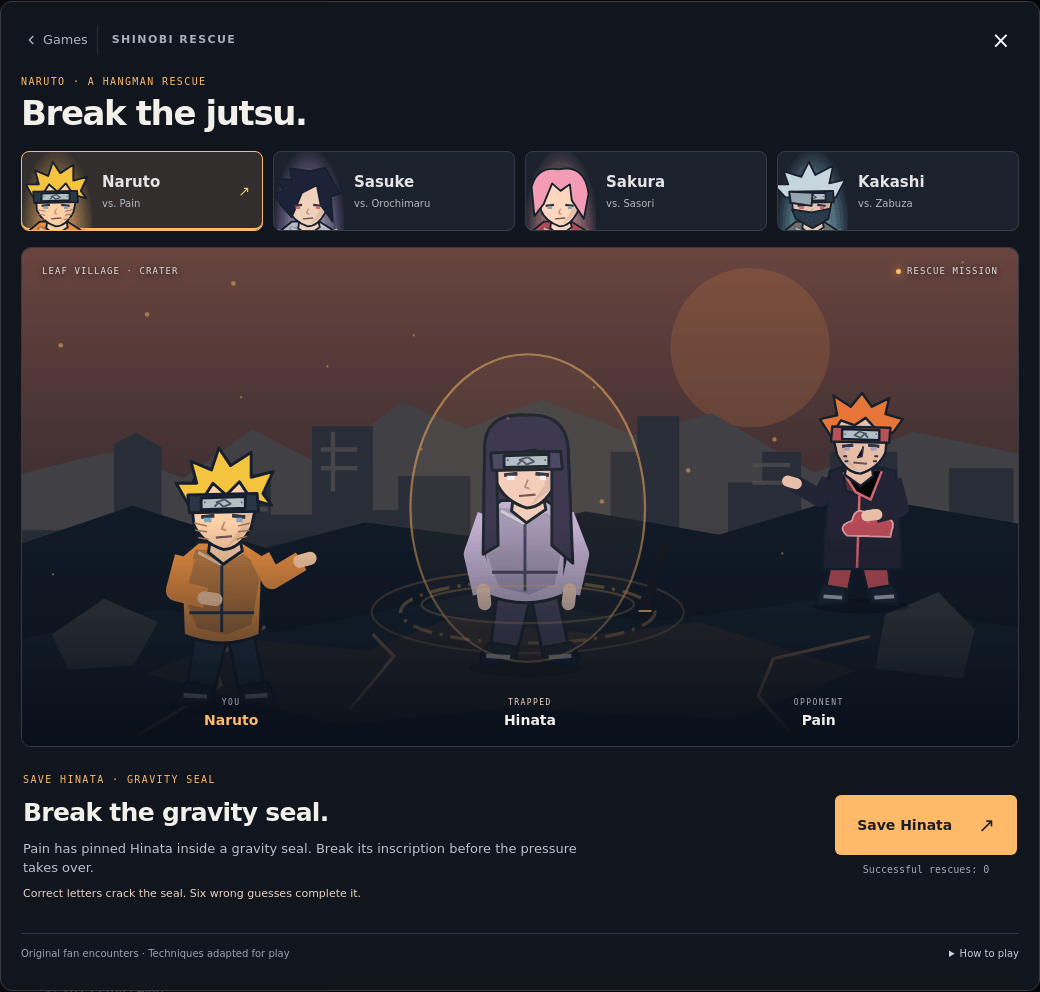
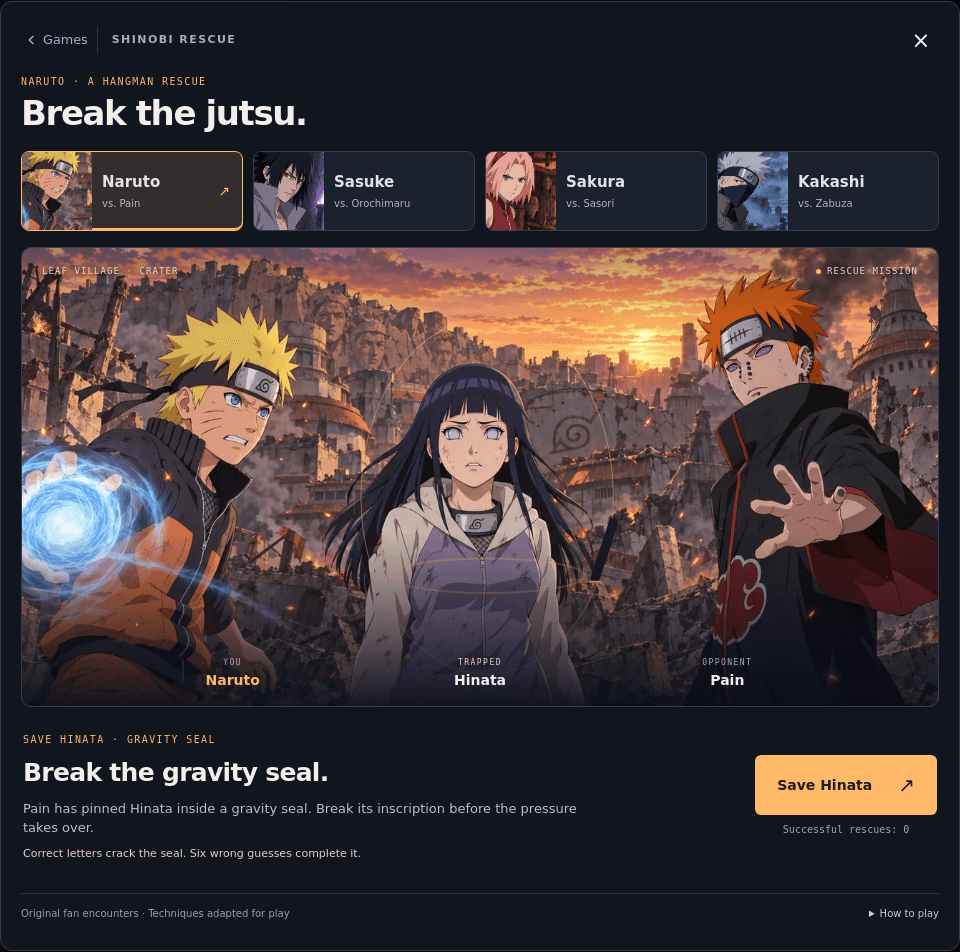
Replace rescue characters with illustrated 2D scenes and simplify desktop input

diff --git a/js/rescue-art.js b/js/rescue-art.js
@@ -1,80 +1,30 @@
-// Original, inline vector artwork. No remote images, fonts, or asset requests.
-const palettes = {
-  naruto: ['#f5c43f', '#ed9140', '#273546', '#ffd0a6'],
-  hinata: ['#33314e', '#c1b2d8', '#424363', '#f3cfbf'],
-  pain: ['#e87538', '#222334', '#bc4e58', '#e8bfa6'],
-  sasuke: ['#1c2238', '#b8bbd0', '#363049', '#efd0bc'],
-  orochimaru: ['#171b2b', '#d1c5a8', '#846591', '#e4dfc6'],
-  sakura: ['#f49cb6', '#b7405f', '#442a42', '#ffd6be'],
-  sasori: ['#b44742', '#272536', '#bc4e58', '#eac4ac'],
-  kankuro: ['#272536', '#383746', '#514c67', '#e6bb95'],
-  kakashi: ['#c6d6df', '#687e67', '#243747', '#e8c6af'],
-  zabuza: ['#202c37', '#7c999e', '#2c4451', '#d4bba7']
-};
-export function shinobi(name, pose = 'stand') {
-  const id = name.toLowerCase();
-  const [hair, coat, dark, skin] = palettes[id];
-  const cloak = ['pain', 'sasori'].includes(id);
-  const long = ['hinata', 'orochimaru'].includes(id);
-  const captive = pose === 'captive';
-  const headband = ['naruto', 'hinata', 'pain', 'kakashi', 'zabuza'].includes(id);
-  const hairPath = id === 'naruto' ? 'M27 43 19 29 33 29 29 14 43 20 48 5 56 17 70 8 70 25 85 21 78 36 84 44 70 40 62 28 53 37 44 29 35 43Z' : id === 'kakashi' ? 'M23 43 10 29 26 29 21 15 40 21 48 5 55 19 74 9 70 28 87 24 77 43Z' : id === 'pain' ? 'M25 41 17 30 31 26 28 13 42 20 50 9 59 20 73 11 70 27 84 30 75 44 67 31 56 35 47 29 37 40Z' : id === 'sasuke' ? 'M23 52 15 39 26 36 17 23 34 24 32 12 54 15 70 11 78 26 86 39 76 42 78 69 65 51 61 30 45 38 34 64Z' : id === 'sakura' ? 'M24 63 21 32Q27 9 50 13Q78 7 82 39L77 66 64 46 62 29 52 36 43 28 34 50Z' : long ? 'M22 105 23 36Q22 10 51 12Q79 10 79 38L82 111 68 99 68 42 57 35 31 40 32 99Z' : 'M23 47 22 29Q29 10 52 14Q79 11 80 38L74 53 65 31 38 34 30 56Z';
-  return `<g class="sr-person sr-person-${id}" stroke="#15202d" stroke-width="2" stroke-linejoin="round">
-    <ellipse cx="51" cy="181" rx="39" ry="6" fill="#000" opacity=".28" stroke="none"/>
-    ${long ? `<path d="M22 105 23 36Q22 10 51 12Q79 10 79 38L82 118 64 108 36 114Z" fill="${hair}"/>` : ''}
-    <path d="m32 126-6 49 17 3 11-45 9 44 18-2-11-51" fill="${dark}"/>
-    <path d="m26 164 18 3-1 11-23 2 1-9Zm37 3 18-3 5 9-1 7-23-2Z" fill="#1a2938"/>
-    <path d="m24 173 16 1m26 0 15-1" stroke="#acb5bc" stroke-width="3"/>
-    <path d="M34 69 22 79 24 132Q51 143 76 132L78 78 64 69Z" fill="${coat}"/>
-    <path d="m32 74-8 30 9 23 20 5 17-7 7-38-15-12" fill="${dark}" opacity=".25" stroke="none"/>
-    ${cloak ? `<path d="M33 69 23 72 17 151 82 151 76 72 66 69 63 88 49 92 40 85Z" fill="${coat}"/><path d="m52 91 2 59M34 72l9 23 12-6 10-16" stroke="#d1686f"/><path d="M26 120q-4-10 7-10 3-12 12-4 11-6 13 6 13 4 4 12l-35 1Z" fill="#b74b57" stroke="#dfa2a0" stroke-width="1.4"/>` : `<path d="M50 77v53M28 117h44" stroke="${dark}"/><path d="M34 76 49 84 64 76" fill="none" stroke="#f4eee1" opacity=".6"/>`}
-    ${id === 'kakashi' ? '<path d="m29 86 15 1-1 20H28Zm29 1 15-1 1 21H58Z" fill="#899b75"/><path d="M32 92h8m21 0h9M32 100h8m21 0h9" stroke="#4e6559"/>' : ''}
-    ${id === 'sasuke' || id === 'orochimaru' ? '<path d="M23 125q27-9 55 0m-53 6q25-9 51 0" fill="none" stroke="#8f71a9" stroke-width="6"/><path d="M53 126q26-13 19 7-12 11-17-4 7 18 2 30" fill="none" stroke="#9f81b9" stroke-width="5"/>' : ''}
-    <path d="${captive ? 'M25 79 16 105 22 131M76 79 86 105 80 131' : pose === 'attack' ? 'M25 79 19 102 39 107M76 79 84 94 104 82' : 'M25 79 13 110 17 130M76 79 89 109 85 131'}" fill="none" stroke="${coat}" stroke-width="14"/>
-    <path d="${captive ? 'm22 129 1 9m57-9-1 9' : pose === 'attack' ? 'm38 107 8 1m57-26 7-2' : 'm17 128 1 9m67-9-1 9'}" fill="none" stroke="${skin}" stroke-width="9" stroke-linecap="round"/>
-    <path d="m43 60-2 16 10 8 13-9-3-15" fill="${skin}"/>
-    <path d="M29 36Q29 18 52 19Q75 18 74 41L70 59Q62 74 51 74Q36 69 31 57Z" fill="${skin}"/>
-    <path d="m65 41 7 3-4 17-15 12 10-14Z" fill="#aa7774" opacity=".25" stroke="none"/>
-    <path d="${hairPath}" fill="${hair}"/>
-    ${headband ? `<path d="m27 37 47-1 1 12-47 1Z" fill="${dark}"/><path d="m36 39 30-1v8l-30 1Z" fill="#b2bfc6"/><path d="m46 42 6-2 4 3-5 2-3-3-3 3m-7-3h1m24 0h1" fill="none" stroke="#455469" stroke-width="1.3"/>` : ''}
-    ${id === 'kankuro' ? `<path d="M24 38 24 18 37 24 52 16 68 23 79 17 80 43 71 69 66 42 36 41 32 72 23 55Z" fill="${hair}"/><path d="m35 49 8 9-7 4m29-13-8 9 7 4m-20 8h13" stroke="#7753a9" stroke-width="4" fill="none"/>` : ''}
-    <path d="m36 52 9-1m12 0 9 1" stroke="#303441" stroke-width="2.5"/>
-    <path d="m38 54h5m17 0h4" stroke="${id === 'hinata' ? '#eff0ff' : ['sasuke','kakashi'].includes(id) ? '#dc5a62' : id === 'pain' ? '#b293c7' : '#78a9c1'}" stroke-width="3"/>
-    ${id === 'pain' ? '<path d="m49 52 1 8 4 1m-17-1h3m-2 4h3m21-4h3m-4 4h3" stroke="#353242" stroke-width="1.5"/>' : '<path d="m52 55-2 5 3 1" stroke="#b78779" stroke-width="1.2" fill="none"/>'}
-    <path d="m46 66 11-1" stroke="#6c5357" stroke-width="1.5"/>
-    ${id === 'naruto' ? '<path d="m31 56 9 2m-8 3 8 1m-6 4 7 1m20-9 9-2m-9 6 8-1m-9 6 7-2" stroke="#a47158" stroke-width="1"/>' : ''}
-    ${id === 'kakashi' ? '<path d="m30 56 21 3 20-4-2 11-17 10-18-10Z" fill="#293b4e"/><path d="m28 37 24 1-1 14-21-3" fill="#94a8b2"/>' : ''}
-    ${id === 'zabuza' ? '<path d="m29 57 42-3-4 15-17 7-17-8Z" fill="#c6d4d5"/><path d="m34 59 30-1m-28 6 28-2m-24 7 20-3" stroke="#789397" stroke-width="1"/><path d="m80 134 21-87 14 4-23 89Z" fill="#aebfc3"/><circle cx="102" cy="61" r="4" fill="#334855"/><path d="m83 135-5 22" stroke="#494b54" stroke-width="7"/>' : ''}
-  </g>`;
+// Generated 2D encounter illustrations are local assets. SVG is used only for
+// the live prison, fractures, and attack effects, never to draw characters.
+export function portrait(name) {
+  return `<span class="sr-portrait-image" style="background-image:url('images/shinobi/${name.toLowerCase()}.webp')" aria-hidden="true"></span>`;
 }
-export function portrait(name) { return `<svg viewBox="15 0 75 83" aria-hidden="true" focusable="false">${shinobi(name)}</svg>`; }
-
-function scenery(mission) {
-  const common = `<path d="M0 267 100 233 220 271 310 248 402 260 510 238 630 259 750 223 900 249V450H0Z" fill="#101a27"/><path d="M0 353 125 326 230 347 410 312 567 338 734 316 900 343V450H0Z" fill="#172431"/>`;
-  if (mission.id === 'naruto') return `<circle cx="658" cy="90" r="72" fill="#d88046" opacity=".2"/><path d="M0 204 79 184 146 208 208 164 269 195 343 139 401 163 470 137 553 169 623 149 716 203 805 166 900 186V344H0Z" fill="#414044"/><path d="M0 255h83V177l20-10 23 13v75h61v-51h38v37h37v-80h55v76h23v-31h65v69h29v-59h46v51h52v-83h24v-32h38v115h44v-55h31v-28h35v83h26v-83h61v68h47v-53h58v85h59v-71h29v96H0Z" fill="#282d37"/><g stroke="#565054" stroke-width="4" opacity=".65"><path d="M281 166v54m-11-38h33m-33 17h33m-97 37h16m438-40h34m-34 16h34"/></g>${common}<path d="m113 385 75-33 124 12 74-29 134 14 92-11 141 44-112 44-204-10-150 15Z" fill="#302d32"/><path d="m105 440 75-45-8-24 48-29m476 98-31-35 14-34 87-20m-470 66 40-48-19-20" stroke="#776152" stroke-width="3" fill="none"/><path d="m27 349 47-32 49 21-22 39-59 4Zm753-18 48-20 33 34-11 44-79-9Z" fill="#393b40"/>`;
-  if (mission.id === 'sasuke') return `<path d="M0 0H900V160L838 122 802 197 744 83 677 144 615 64 552 122 465 59 383 155 296 83 227 148 155 63 92 147 0 124Z" fill="#272439"/><path d="M0 93 86 169 56 450H0Zm900-16-91 100 13 273h78Z" fill="#393149"/><path d="M130 112h39v227h-56Zm600 0h41l16 227h-54Z" fill="#39314a"/><path d="M118 108h65v15h-65Zm600 0h66v15h-66Z" fill="#574160"/>${common}<path d="M191 450 290 284m420 166L610 284m-452 77h590M93 416h720" stroke="#4a3656" stroke-width="2"/><g fill="none" stroke="#796194" opacity=".5" stroke-width="10"><path d="M31 291q140-156 107-37T60 334m802-43q-140-156-107-37t78 80"/></g><g fill="#c995fc"><path d="m137 190-10 31 15 13 11-17Z"/><path d="m751 189-12 29 14 16 12-17Z"/></g>`;
-  if (mission.id === 'sakura') return `<path d="M0 0H900V330H0Z" fill="#31282e"/><path d="M0 71h900M0 224h900M85 0v329M281 0v329M623 0v329M819 0v329" stroke="#63404a" stroke-width="12"/><g fill="#171d28" stroke="#79505a" stroke-width="3">${[155,337,564,746].map((x,i)=>`<path d="M${x} 0v${50+i*15}"/><ellipse cx="${x}" cy="${86+i*15}" rx="23" ry="30"/><path d="m${x-17} ${107+i*15}-15 95 67 2-18-94Z"/><path d="m${x-9} ${88+i*15}h4m11 0h4" stroke="#d2968d"/>`).join('')}</g>${common}<path d="M80 390 450 298 820 390 450 447Z" fill="#422e36" stroke="#9d6570" stroke-width="2"/><path d="m172 390 278-69 278 69-278 40Z" fill="none" stroke="#78535e"/>`;
-  return `<circle cx="660" cy="84" r="45" fill="#b5d2d8" opacity=".45"/><path d="M0 234 144 171 258 233 363 181 456 216 595 158 741 206 900 139V399H0Z" fill="#2f4654"/><path d="M0 291 135 245 312 287 498 245 679 283 900 210V450H0Z" fill="#263f4e"/><path d="M0 322h900v128H0Z" fill="#345463"/><g stroke="#7599a5" stroke-width="2" opacity=".45">${[0,1,2,3,4].map(i=>`<path d="M${i*91} ${336+i*23}h${280+i*25}m45 0h170"/>`).join('')}</g><path d="M0 344 210 306 686 306 900 346V385L678 343H213L0 388Z" fill="#3c5059"/><path d="M0 296 225 265h463l212 31M210 268v78m475-78v78" stroke="#6c8389" stroke-width="10"/><path d="M0 197q150-25 313 0t350 0 237-15M0 265q150-25 313 0t350 0 237-15" stroke="#a5c9ce" stroke-width="24" opacity=".1" fill="none"/>`;
-}
-
 export function scene(mission, prefix = 'rescue') {
-  const sky = { naruto: '#69443e', sasuke: '#312546', sakura: '#482a35', kakashi: '#304d62' }[mission.id];
   return `<svg class="sr-scene-svg" viewBox="0 0 900 450" aria-hidden="true" focusable="false">
-    <defs><linearGradient id="${prefix}-sky" x2="0" y2="1"><stop stop-color="${sky}"/><stop offset="1" stop-color="#101825"/></linearGradient><radialGradient id="${prefix}-aura"><stop stop-color="${mission.energy}" stop-opacity=".32"/><stop offset="1" stop-color="${mission.energy}" stop-opacity="0"/></radialGradient><linearGradient id="${prefix}-shade" x2="0" y2="1"><stop stop-color="#090f1900" offset=".55"/><stop stop-color="#090f19" offset="1"/></linearGradient></defs>
-    <path d="M0 0H900V450H0Z" fill="url(#${prefix}-sky)"/>
-    ${scenery(mission)}
-    <ellipse cx="457" cy="329" rx="141" ry="37" fill="none" stroke="${mission.color}" opacity=".22" stroke-width="2"/>
-    <ellipse cx="457" cy="329" rx="115" ry="28" fill="none" stroke="${mission.color}" opacity=".36" stroke-dasharray="18 7 3 7" stroke-width="3"/>
-    <g class="sr-enemy" transform="translate(815 121) scale(-1.12 1.12)">${shinobi(mission.enemy, 'attack')}</g>
-    <g class="sr-captive-position" transform="translate(387 135) scale(1.35)"><g class="sr-captive">${shinobi(mission.captive, 'captive')}</g></g>
-    <g class="sr-prison"><ellipse cx="457" cy="235" rx="106" ry="139" fill="${mission.color}" fill-opacity=".055" stroke="${mission.color}" stroke-opacity=".5" stroke-width="2"/>
-      <g class="sr-bindings"></g><g class="sr-cracks" fill="none" stroke="${mission.energy}" stroke-width="3" stroke-linejoin="bevel"></g>
+    <defs>
+      <linearGradient id="${prefix}-shade" x2="0" y2="1"><stop stop-color="#080c18" stop-opacity=".25"/><stop offset=".18" stop-color="#080c18" stop-opacity="0"/><stop offset=".62" stop-color="#080c18" stop-opacity="0"/><stop offset="1" stop-color="#080c18" stop-opacity=".93"/></linearGradient>
+      <radialGradient id="${prefix}-aura"><stop stop-color="${mission.energy}" stop-opacity=".5"/><stop offset="1" stop-color="${mission.energy}" stop-opacity="0"/></radialGradient>
+      <linearGradient id="${prefix}-veil" x2="0" y2="1"><stop stop-color="#171227" stop-opacity="0"/><stop offset="1" stop-color="#171227" stop-opacity=".9"/></linearGradient>
+    </defs>
+    <image class="sr-illustration" href="images/shinobi/${mission.id}.webp" width="900" height="600" preserveAspectRatio="xMidYMin meet"/>
+    <rect class="sr-captive-veil" x="321" y="78" width="272" height="352" rx="110" fill="url(#${prefix}-veil)" opacity="0"/>
+    <g class="sr-prison">
+      <ellipse cx="457" cy="244" rx="124" ry="175" fill="${mission.color}" fill-opacity=".025" stroke="${mission.color}" stroke-opacity=".45" stroke-width="1"/>
+      <ellipse cx="457" cy="244" rx="131" ry="182" fill="none" stroke="${mission.color}" stroke-opacity=".22" stroke-width=".7" stroke-dasharray="22 5 2 5"/>
+      <g class="sr-bindings"></g>
+      <g class="sr-cracks" fill="none" stroke="${mission.energy}" stroke-width="2" stroke-linejoin="bevel"></g>
     </g>
-    <g class="sr-hero-position" transform="translate(114 174) scale(1.33)"><g class="sr-hero">${shinobi(mission.hero, 'attack')}</g></g>
-    <g class="sr-strike" opacity="0"><ellipse cx="327" cy="276" rx="82" ry="61" fill="url(#${prefix}-aura)"/>${mission.id === 'naruto' ? `<g stroke="${mission.energy}" fill="none"><circle cx="306" cy="281" r="29" stroke-width="4"/><ellipse cx="306" cy="281" rx="29" ry="12" transform="rotate(-35 306 281)" stroke-width="3"/><ellipse cx="306" cy="281" rx="12" ry="29" transform="rotate(-35 306 281)" stroke-width="2"/></g>` : mission.id === 'sakura' ? `<path d="m302 272 17-41 7 27 29-9-13 27 24 10-36 8-14 25-8-29-24-1Z" fill="${mission.energy}"/>` : `<path d="m270 279 35-26-6 24 49-31-24 39 48-8-37 25 9 15-63-22" fill="none" stroke="${mission.energy}" stroke-width="4"/>`}</g>
-    <g class="sr-shards" fill="${mission.energy}" opacity="0">${Array.from({length:12},(_,i)=>{const a=i*Math.PI/6,x=457+Math.cos(a)*118,y=235+Math.sin(a)*142;return `<path style="--dx:${Math.cos(a)*115}px;--dy:${Math.sin(a)*90}px;--spin:${i%2?70:-70}deg" d="m${x} ${y} 16-13-5 31Z"/>`;}).join('')}</g>
+    <g class="sr-strike" opacity="0"><ellipse cx="357" cy="271" rx="130" ry="105" fill="url(#${prefix}-aura)"/>
+      ${mission.id==='naruto' ? `<g stroke="${mission.energy}" fill="none"><circle cx="306" cy="281" r="29" stroke-width="3"/><ellipse cx="306" cy="281" rx="29" ry="12" transform="rotate(-35 306 281)" stroke-width="2"/><ellipse cx="306" cy="281" rx="12" ry="29" transform="rotate(-35 306 281)" stroke-width="2"/></g>` : mission.id==='sakura' ? `<path d="m302 272 17-41 7 27 29-9-13 27 24 10-36 8-14 25-8-29-24-1Z" fill="${mission.energy}"/>` : `<path d="m260 295 49-35-8 25 39-39-5 39 52-20-32 32 22 18-75-17" stroke="${mission.energy}" stroke-width="3" fill="none"/>`}
+    </g>
+    <ellipse class="sr-rescue-light" cx="457" cy="244" rx="220" ry="210" fill="url(#${prefix}-aura)" opacity="0"/>
+    <g class="sr-shards" fill="${mission.energy}" opacity="0">${Array.from({length:16},(_,i)=>{const a=i*Math.PI/8,x=457+Math.cos(a)*122,y=244+Math.sin(a)*172;return `<path style="--dx:${Math.cos(a)*130}px;--dy:${Math.sin(a)*100}px;--spin:${i%2?70:-70}deg" d="m${x} ${y} 13-12-5 27Z"/>`;}).join('')}</g>
     <path d="M0 0H900V450H0Z" fill="url(#${prefix}-shade)" pointer-events="none"/>
-    <g fill="${mission.color}" opacity=".5">${Array.from({length:16},(_,i)=>`<circle class="sr-mote" style="animation-delay:${i*.27}s" cx="${(i*163+35)%900}" cy="${(i*47+88)%310}" r="${i%3===0?2:1}"/>`).join('')}</g>
+    <g fill="${mission.color}" opacity=".45">${Array.from({length:12},(_,i)=>`<circle class="sr-mote" style="animation-delay:${i*.27}s" cx="${(i*163+35)%900}" cy="${(i*47+88)%380}" r="${i%3===0?1.5:.8}"/>`).join('')}</g>
   </svg>`;
 }
 

diff --git a/css/rescue.css b/css/rescue.css
@@ -1,5 +1,5 @@
 /* Shinobi Rescue: all game styles are scoped to the new arcade panel. */
-.game-modal[data-game="rescue"] .game-modal-content { width:min(1040px,100%); background:#10151e; border-color:#3b3942; padding:20px; }
+.game-modal[data-game="rescue"] .game-modal-content { width:min(960px,100%); background:#10151e; border-color:#3b3942; padding:20px; }
 .game-modal[data-game="rescue"] .game-modal-header { margin-bottom:12px; }
 .game-modal[data-game="rescue"] .game-heading h3 { color:#a7adba; font-size:11px; text-transform:uppercase; letter-spacing:.13em; }
 .rescue-game { --sr-accent:#ffba69; --sr-energy:#80e8ff; color:#f3efe9; font:14px/1.5 system-ui,sans-serif; }
@@ -17,7 +17,11 @@
 .sr-character[aria-pressed="true"] { background:color-mix(in srgb,var(--card-accent) 13%,#141925); border-color:var(--card-accent); box-shadow:inset 0 -2px var(--card-accent); }
 .sr-character:hover { border-color:var(--card-accent); }
 .sr-portrait { width:70px; height:78px; flex:0 0 70px; align-self:flex-end; background:radial-gradient(ellipse at bottom,var(--card-accent),transparent 75%); }
-.sr-portrait svg { width:100%; height:100%; display:block; transform:translateY(5px); }
+.sr-portrait { position:relative; background:#242635; }
+.sr-portrait-image { display:block; width:100%; height:100%; background-size:500% auto; background-position:17% 23%; background-repeat:no-repeat; }
+[data-shinobi="sasuke"] .sr-portrait-image { background-position:19% 18%; }
+[data-shinobi="sakura"] .sr-portrait-image { background-position:18% 25%; }
+[data-shinobi="kakashi"] .sr-portrait-image { background-position:19% 19%; }
 .sr-character-copy { display:flex; flex-direction:column; gap:3px; min-width:0; }
 .sr-character strong { font-size:15px; }
 .sr-character small { font-size:10px; color:#b5b6c0; white-space:nowrap; }
@@ -28,7 +32,7 @@
 .sr-scene-top { position:absolute; top:17px; left:20px; right:20px; display:flex; justify-content:space-between; align-items:center; gap:12px; font:9px/1.5 ui-monospace,monospace; color:#e0d7d4; letter-spacing:.12em; text-shadow:0 1px 6px #10121c; }
 .sr-signal { display:flex; align-items:center; gap:6px; white-space:nowrap; }
 .sr-signal i { width:5px; height:5px; border-radius:50%; background:var(--sr-accent); box-shadow:0 0 10px var(--sr-accent); }
-.sr-nameplates { position:absolute; bottom:15px; left:0; right:0; display:grid; grid-template-columns:42% 18% 40%; pointer-events:none; }
+.sr-nameplates { position:absolute; bottom:15px; left:0; right:0; display:grid; grid-template-columns:46% 8% 46%; pointer-events:none; }
 .sr-nameplates span { display:flex; flex-direction:column; align-items:center; gap:2px; }
 .sr-nameplates small { font:8px/1.4 ui-monospace,monospace; letter-spacing:.18em; color:#aba8b6; }
 .sr-nameplates b { font-size:14px; font-weight:600; }
@@ -51,7 +55,8 @@
 .sr-pressure-track i.is-filled { background:#ee827e; box-shadow:0 0 12px #ee827e30; }
 .sr-puzzle-layout { display:grid; grid-template-columns:minmax(0,1fr) minmax(0,1fr); gap:30px; align-items:center; }
 .sr-puzzle #srClue { color:#e2dfe4; font-size:14px; min-height:42px; margin:7px 0 14px; }
-.sr-word { display:flex; gap:5px; flex-wrap:wrap; }
+.sr-word { width:fit-content; max-width:100%; display:flex; gap:5px; flex-wrap:wrap; }
+.sr-word:focus-visible { outline:1px solid var(--sr-accent); outline-offset:6px; border-radius:4px; }
 .sr-word span { display:grid; place-items:center; width:clamp(22px,3vw,35px); height:41px; font:600 19px ui-monospace,monospace; background:#1a2330; border:1px solid #344251; border-bottom:2px solid #68798e; border-radius:4px; color:#8da0b5; }
 .sr-word .is-found { color:var(--sr-energy); border-color:color-mix(in srgb,var(--sr-energy) 40%,#273342); background:color-mix(in srgb,var(--sr-energy) 8%,#141c27); }
 .sr-word .is-revealed { color:#ff9a94; border-color:#aa6568; }
@@ -73,7 +78,7 @@
 .sr-footer summary { cursor:pointer; color:#c7ccd7; min-height:24px; }
 .sr-footer details p { padding:10px 0; text-align:left; line-height:1.7; font-size:12px; }
 .sr-reader { position:absolute; width:1px; height:1px; overflow:hidden; clip-path:inset(50%); white-space:nowrap; }
-.sr-impact-label { position:absolute; top:17%; left:24%; right:24%; text-align:center; font:600 11px/1.5 ui-monospace,monospace; color:var(--sr-energy); letter-spacing:.08em; opacity:0; text-shadow:0 2px 6px #10121c; }
+.sr-impact-label { position:absolute; top:9%; left:24%; right:24%; text-align:center; font:600 11px/1.5 ui-monospace,monospace; color:var(--sr-energy); letter-spacing:.08em; opacity:0; text-shadow:0 2px 6px #10121c; }
 .sr-miss .sr-impact-label { color:#ffd3ca; }
 .sr-hit .sr-impact-label,.sr-miss .sr-impact-label { animation:sr-label .65s ease-out; }
 .sr-prison { transform-box:fill-box; transform-origin:center; transition:opacity .5s; }
@@ -81,17 +86,17 @@
 .sr-bindings { transition:opacity .3s; }
 .sr-mote { animation:sr-drift 4s ease-in-out infinite alternate; }
 .sr-hit .sr-strike { animation:sr-strike .65s ease-out; }
-.sr-hit .sr-hero { animation:sr-lunge .6s ease-out; }
-.sr-miss .sr-captive { animation:sr-struggle .5s ease-out; }
+
+.sr-miss .sr-illustration { animation:sr-impact .45s ease-out; }
 .sr-miss .sr-prison { animation:sr-tighten .5s ease-out; }
 .rescue-game[data-phase="won"] .sr-prison { opacity:0; transform:scale(1.16); transition:opacity .6s .15s,transform .7s; }
 .rescue-game[data-phase="won"] .sr-shards { opacity:1; }
 .rescue-game[data-phase="won"] .sr-shards path { animation:sr-shatter .95s ease-out forwards; transform-box:fill-box; transform-origin:center; }
-.rescue-game[data-phase="won"] .sr-enemy { opacity:.2; transition:opacity 1s; }
-.rescue-game[data-phase="won"] .sr-captive { animation:sr-release 1s ease-out; }
+
+.rescue-game[data-phase="won"] .sr-rescue-light { animation:sr-release 1s ease-out; }
 .rescue-game[data-phase="won"] .sr-pressure-track i { background:var(--sr-energy); }
 .rescue-game[data-phase="lost"] .sr-prison { fill:#261f37; filter:brightness(.45); }
-.rescue-game[data-phase="lost"] .sr-captive { opacity:.25; transition:opacity .7s; }
+.rescue-game[data-phase="lost"] .sr-captive-veil { opacity:1; transition:opacity .7s; }
 .rescue-game[data-phase="lost"] .sr-stage { filter:saturate(.55); }
 .rescue-game[data-phase="lost"] .sr-cracks { opacity:.4; }
 .rescue-game[data-active="false"] *, .preview-rescue * { animation-play-state:paused!important; }
@@ -100,15 +105,26 @@
 @keyframes sr-drift { to { transform:translate(7px,-8px); opacity:.25; } }
 @keyframes sr-label { 0%{opacity:0;transform:translateY(8px)} 20%,75%{opacity:1} 100%{opacity:0;transform:translateY(-5px)} }
 @keyframes sr-strike { 0%{opacity:0;transform:translateX(-25px)} 30%{opacity:1} 65%{opacity:1;transform:translateX(58px)} 100%{opacity:0;transform:translateX(110px)} }
-@keyframes sr-lunge { 30%{transform:translate(17px,-3px)} }
-@keyframes sr-struggle { 25%{transform:translate(-3px,2px)} 50%{transform:translate(3px,5px)} 75%{transform:translate(-2px,2px)} }
+
+@keyframes sr-impact { 50%{filter:brightness(.75) saturate(.8)} }
 @keyframes sr-tighten { 50%{transform:scale(.96);filter:brightness(1.7)} }
 @keyframes sr-shatter { 0%{opacity:0} 15%{opacity:1} 100%{opacity:0;transform:translate(var(--dx),var(--dy)) rotate(var(--spin))} }
-@keyframes sr-release { 0%{filter:brightness(2)} 100%{filter:brightness(1)} }
-.rescue-game[data-screen="play"] .sr-scene-svg { aspect-ratio:2.5/1; }
+@keyframes sr-release { 20%{opacity:1} 100%{opacity:0} }
+.rescue-game[data-screen="play"] .sr-scene-svg { aspect-ratio:2/1; }
 .rescue-game[data-phase="won"] .sr-puzzle>.sr-eyebrow, .rescue-game[data-phase="lost"] .sr-puzzle>.sr-eyebrow,
 .rescue-game[data-phase="won"] #srClue, .rescue-game[data-phase="lost"] #srClue,
 .rescue-game[data-phase="won"] .sr-input, .rescue-game[data-phase="lost"] .sr-input { display:none; }
+.rescue-game[data-phase="won"] .sr-puzzle-layout, .rescue-game[data-phase="lost"] .sr-puzzle-layout { grid-template-columns:1fr; }
+/* Capability-based input: laptops/desktops type directly; touch keeps keys. */
+.sr-desktop-input { display:none; padding-left:25px; border-left:1px solid #343c48; }
+.sr-desktop-input #srTypeHint { font-size:13px; color:#dcdde2; margin-bottom:14px; }
+.sr-desktop-input .sr-missed-label { font:9px ui-monospace,monospace; color:#b6ad9d; letter-spacing:.12em; margin-bottom:6px; }
+.sr-desktop-input .sr-missed { font:14px ui-monospace,monospace; color:#f2aca7; letter-spacing:.18em; min-height:22px; }
+.sr-desktop-input>span { display:block; margin-top:10px; color:#939bad; font-size:10px; }
+.rescue-game[data-keyboard="physical"] .sr-input { display:none; }
+.rescue-game[data-keyboard="physical"] .sr-desktop-input { display:block; }
+.rescue-game[data-keyboard="physical"] .sr-puzzle-layout { grid-template-columns:minmax(0,1.6fr) minmax(180px,.8fr); }
+.rescue-game[data-phase="won"] .sr-desktop-input, .rescue-game[data-phase="lost"] .sr-desktop-input { display:none; }
 .rescue-game[data-phase="won"] .sr-puzzle-layout, .rescue-game[data-phase="lost"] .sr-puzzle-layout { grid-template-columns:1fr; }
 @media(max-width:650px) {
   .game-modal[data-game="rescue"] .game-modal-content { padding:13px; }
@@ -121,10 +137,10 @@
   .sr-character strong { font-size:13px; }
   .sr-character small { font-size:9px; }
   .sr-character-copy { gap:1px; }
-  .sr-scene-svg { width:128%; max-width:none; margin-left:-14%; aspect-ratio:2/1; }
+  .sr-scene-svg { width:100%; aspect-ratio:2/1; }
   .sr-scene-top { top:10px; left:10px; right:10px; font-size:7px; letter-spacing:.04em; }
   .sr-scene-top>span:first-child { max-width:46%; }
-  .sr-nameplates { bottom:10px; grid-template-columns:36% 30% 34%; }
+  .sr-nameplates { bottom:10px; grid-template-columns:46% 8% 46%; }
   .sr-nameplates b { font-size:11px; }
   .sr-nameplates small { font-size:7px; }
   .sr-briefing { grid-template-columns:1fr; gap:14px; padding-top:15px; }
@@ -132,10 +148,11 @@
   .sr-briefing p { font-size:12px; }
   .sr-deploy { align-items:stretch; }
   .sr-deploy>span { text-align:center; }
-  .sr-puzzle-layout { grid-template-columns:1fr; gap:17px; }
+  .sr-puzzle-layout, .rescue-game[data-keyboard="physical"] .sr-puzzle-layout { grid-template-columns:1fr; gap:17px; }
+  .sr-desktop-input { border-left:0; border-top:1px solid #343c48; padding:12px 0 0; }
   .sr-puzzle #srClue { min-height:0; font-size:13px; margin:5px 0 11px; }
   .sr-word { gap:4px; }
-  .sr-word span { width:calc((100% - 36px)/10); max-width:34px; height:36px; font-size:16px; }
+  .sr-word span { width:clamp(22px,7vw,32px); flex:0 0 clamp(22px,7vw,32px); height:36px; font-size:16px; }
   .sr-pressure { margin:12px 0 14px; }
   .sr-pressure>div:first-child { font-size:9px; }
   .sr-key-row { gap:4px; }
@@ -144,7 +161,7 @@
   .sr-result h5 { font-size:24px; }
   .sr-status { font-size:10px; }
   .sr-footer { font-size:9px; gap:10px; }
-  .sr-impact-label { font-size:8px; left:20%; right:20%; top:20%; }
+  .sr-impact-label { font-size:8px; left:20%; right:20%; top:12%; }
 }
 @media(prefers-reduced-motion:reduce) {
   .rescue-game *, .rescue-game *::before, .rescue-game *::after { animation:none!important; transition:none!important; }

diff --git a/js/game-rescue.js b/js/game-rescue.js
@@ -6,6 +6,8 @@ const preview = document.getElementById('rescuePreview');
 const model = new RescueModel();
 const deck = new WordDeck();
 const motion = window.matchMedia('(prefers-reduced-motion: reduce)');
+const desktopPointer = window.matchMedia('(hover: hover) and (pointer: fine)');
+let showDesktopKeys = false;
 let selected = MISSIONS[0], active = false, screen = 'choose', effectTimer = 0, finishTimer = 0;
 root.dataset.active = 'false';
 let records = {};
@@ -32,15 +34,31 @@ root.innerHTML = `
   </div>
   <div id="srPlay" class="sr-play" hidden>
     <div class="sr-pressure"><div><span id="srJutsu"></span><strong id="srRemaining"></strong></div><div class="sr-pressure-track" aria-hidden="true">${Array.from({length:MAX_MISSES},()=>'<i></i>').join('')}</div></div>
-    <div class="sr-puzzle-layout"><div class="sr-puzzle"><span class="sr-eyebrow">BREAK THE INSCRIPTION</span><p id="srClue"></p><div id="srWord" class="sr-word" aria-label="Hidden word"></div><span id="srWordReader" class="sr-reader"></span></div>
-      <div class="sr-input"><div id="srKeyboard" class="sr-keyboard" role="group" aria-label="Guess a letter">${['QWERTYUIOP','ASDFGHJKL','ZXCVBNM'].map(row=>`<div class="sr-key-row">${[...row].map(c=>`<button type="button" data-letter="${c}" aria-label="Guess ${c}">${c}</button>`).join('')}</div>`).join('')}</div><p class="sr-key-help">Type a letter or tap a key. No timer.</p></div>
+    <div class="sr-puzzle-layout"><div class="sr-puzzle"><span class="sr-eyebrow">BREAK THE INSCRIPTION</span><p id="srClue"></p><div id="srWord" class="sr-word" role="group" tabindex="0" aria-label="Hidden word" aria-describedby="srClue srTypeHint"></div><span id="srWordReader" class="sr-reader"></span></div>
+      <div class="sr-desktop-input"><p id="srTypeHint">Type a letter on your keyboard.</p><p class="sr-missed-label">MISSED LETTERS</p><p id="srMissed" class="sr-missed">None yet</p><span>No timer. Take your time.</span></div><div class="sr-input"><div id="srKeyboard" class="sr-keyboard" role="group" aria-label="Guess a letter">${['QWERTYUIOP','ASDFGHJKL','ZXCVBNM'].map(row=>`<div class="sr-key-row">${[...row].map(c=>`<button type="button" data-letter="${c}" aria-label="Guess ${c}">${c}</button>`).join('')}</div>`).join('')}</div><p class="sr-key-help">Type a letter or tap a key. No timer.</p></div>
     </div>
     <p id="srStatus" class="sr-status" aria-hidden="true"></p><p id="srAnnouncement" class="sr-reader" role="status" aria-live="polite" aria-atomic="true"></p>
     <div id="srResult" class="sr-result" hidden><div><span class="sr-eyebrow" id="srResultTag"></span><h5 id="srResultTitle"></h5><p id="srResultText"></p></div><button type="button" class="sr-primary" id="srNext">Next rescue <span aria-hidden="true">↗</span></button></div>
   </div>
-  <div class="sr-footer"><span>Original fan encounters · Techniques adapted for play</span><details><summary>How to play</summary><p>Use the clue to guess the hidden word, one letter at a time. Every matching letter is revealed together. Correct guesses fracture the prison; each wrong guess advances the restraint. Save your teammate before six mistakes. Repeated letters cost nothing. Escape closes the arcade. Changing missions starts a new word; you can resume before starting another rescue.</p></details></div>
+  <div class="sr-footer"><span>Original fan encounters · Techniques adapted for play</span><details><summary>How to play</summary><p>Use the clue to guess the hidden word, one letter at a time. Every matching letter is revealed together. Correct guesses fracture the prison; each wrong guess advances the restraint. Save your teammate before six mistakes. Repeated letters cost nothing. Escape closes the arcade. Changing missions starts a new word; you can resume before starting another rescue.</p><button type="button" id="srToggleKeys" class="sr-text-button" aria-pressed="false">Show letter keys on desktop</button></details></div>
 `;
 const $ = selector => root.querySelector(selector);
+function usesLetterKeys() { return !desktopPointer.matches || showDesktopKeys; }
+function focusGuessInput() {
+  const target = usesLetterKeys() ? $('#srKeyboard button:not(:disabled)') : $('#srWord');
+  target?.focus({preventScroll:true});
+}
+function syncInputMode() {
+  root.dataset.keyboard = usesLetterKeys() ? 'touch' : 'physical';
+  $('#srToggleKeys').hidden = !desktopPointer.matches;
+  $('#srToggleKeys').setAttribute('aria-pressed', String(showDesktopKeys));
+  $('#srToggleKeys').textContent = showDesktopKeys ? 'Hide letter keys on desktop' : 'Show letter keys on desktop';
+  if (active && screen === 'play' && model.phase === 'playing' &&
+      (document.activeElement === $('#srWord') || document.activeElement?.matches('[data-letter]'))) focusGuessInput();
+}
+desktopPointer.addEventListener('change', syncInputMode);
+$('#srToggleKeys').addEventListener('click', () => { showDesktopKeys = !showDesktopKeys; syncInputMode(); });
+
 function clearEffects() {
   clearTimeout(effectTimer); clearTimeout(finishTimer);
   effectTimer = finishTimer = 0;
@@ -55,7 +73,6 @@ function setTheme(mission) {
   $('#srHeroName').textContent = mission.hero;
   $('#srCaptiveName').textContent = mission.captive;
   $('#srCaptiveState').textContent = 'TRAPPED';
-  if (screen === 'play') $('#srArt svg').setAttribute('viewBox', '0 70 900 360');
   $('#srEnemyName').textContent = mission.enemy;
   $('#srStage').setAttribute('aria-label', `${mission.hero} faces ${mission.enemy}. ${mission.captive} is trapped in a ${mission.jutsu.toLowerCase()}.`);
   $('.sr-bindings').innerHTML = bindingArt(mission, 0);
@@ -80,7 +97,7 @@ function openPlay() {
   $('#srCharacters').hidden = true; $('#srBriefing').hidden = true; $('#srPlay').hidden = false; $('#srChoose').hidden = false;
   $('#srResult').hidden = true; $('#srKeyboard').hidden = false; $('.sr-key-help').hidden = false;
   setTheme(selected); render();
-  $('#srKeyboard button:not(:disabled)')?.focus({preventScroll:true});
+  focusGuessInput();
 }
 function announce(message, word = '') {
   $('#srStatus').textContent = message;
@@ -109,6 +126,8 @@ function render() {
     button.classList.toggle('is-hit', hit); button.classList.toggle('is-miss', guessed && !hit);
     button.setAttribute('aria-label', `${c}${guessed?hit?', correct':', incorrect':', unguessed'}`);
   });
+  const missed = [...model.guessed].filter(c => !model.answer.includes(c));
+  $('#srMissed').textContent = missed.length ? missed.join('  ') : 'None yet';
   $('.sr-bindings').innerHTML = bindingArt(selected, model.misses);
   $('.sr-cracks').innerHTML = crackArt(model.progress);
   $('#srStage').setAttribute('aria-label', model.phase === 'won' ? `${selected.hero} shattered the ${selected.jutsu.toLowerCase()}. ${selected.captive} is safe.` : model.phase === 'lost' ? `${selected.enemy} completed the ${selected.jutsu.toLowerCase()}. ${selected.captive} is still trapped.` : `${selected.captive} is trapped. ${model.misses} of six restraint stages; ${Math.round(model.progress*100)} percent of the inscription solved. ${remaining} mistakes remain.`);
@@ -143,7 +162,7 @@ function guess(letter) {
     }
     finishTimer = window.setTimeout(()=>result(), motion.matches ? 0 : 1100);
   } else if (document.activeElement?.matches('[data-letter]:disabled')) {
-    $('#srKeyboard button:not(:disabled)')?.focus({preventScroll:true});
+    focusGuessInput();
   }
 }
 root.addEventListener('click', event=>{
@@ -164,11 +183,12 @@ export const shinobiRescue = {
     active = true; root.dataset.active = 'true';
     if (screen === 'choose') root.querySelector(`[data-shinobi="${selected.id}"]`).focus({preventScroll:true});
     else if (model.phase !== 'playing') result();
-    else $('#srKeyboard button:not(:disabled)')?.focus({preventScroll:true});
+    else focusGuessInput();
   },
   stop() {
     active = false; root.dataset.active = 'false'; clearEffects();
     if (screen === 'play' && model.phase !== 'playing') result(false);
   }
 };
+syncInputMode();
 choose();

diff --git a/docs/shinobi-rescue.md b/docs/shinobi-rescue.md
@@ -13,7 +13,7 @@ Selecting a shinobi selects an entire original fan encounter, including the oppo
 
 ## Play
 
-Read the clue and guess letters using a physical keyboard or the on-screen keys. Correct guesses reveal every occurrence of the letter and leave persistent cracks in the prison. Wrong guesses advance the mission-specific restraint; six distinct misses complete the jutsu. Guessing a previously used letter costs nothing. There is no timer.
+Read the clue and guess letters. Laptops and desktops use physical typing by default, with a compact missed-letter history instead of on-screen keys. Touch devices retain the on-screen keys. An optional key toggle in How to play supports desktop users who need clickable controls. Detection uses hover/pointer capability, not viewport width; narrowing a desktop window does not bring the keyboard back. Correct guesses reveal every occurrence of the letter and leave persistent cracks in the prison. Wrong guesses advance the mission-specific restraint; six distinct misses complete the jutsu. Guessing a previously used letter costs nothing. There is no timer.
 
 Completing the word triggers the hero's attack, a shattering prison, and a rescued character. Failure reveals the answer and offers another word. Each mission has twelve curated clues in a shuffled bag with no repeat until the bag is exhausted, including protection against repeats across bag boundaries.
 
@@ -22,12 +22,14 @@ Changing shinobi opens the mission selector. Resume returns to the previous miss
 ## Implementation
 
 - `js/rescue-model.js`: encounter definitions, clue decks, and pure guess state.
-- `js/rescue-art.js`: original inline vector characters, four environments, restraints, and crack geometry. No external image requests.
+- `js/rescue-art.js`: local illustrated scene composition plus live restraint, crack, and attack overlays.
+- `images/shinobi/*.webp`: four generated 2D anime encounter illustrations, bundled locally. Character-selection portraits use CSS crops of these same images.
+- `docs/shinobi-art-prompts.json`: exact generation prompts, asset paths, and built-in tool provenance.
 - `js/game-rescue.js`: UI, keyboard handling, arcade lifecycle, short effect timers, and optional record storage.
 - `css/rescue.css`: scoped responsive layouts, character themes, feedback animations, and reduced-motion treatment.
 - `index.html` / `js/game-arcade.js`: one picker card, panel, stylesheet, and controller registration.
 
-No new runtime dependencies or build step. Other games' implementation files are unchanged. No continuous JavaScript animation loop; effects use CSS plus short, canceled-on-close timers. Screen readers receive guess outcomes and word progress through a live region. The scene also has a state-aware accessible description.
+The blocky vector character drawings have been removed. Four 1280-pixel WebP illustrations total roughly 538 KiB. There are no remote artwork dependencies. No new runtime dependencies or build step. Other games' implementation files are unchanged. No continuous JavaScript animation loop; effects use CSS plus short, canceled-on-close timers. Screen readers receive guess outcomes and word progress through a live region. The scene also has a state-aware accessible description.
 
 ## Validation
 
@@ -42,7 +44,10 @@ node --test tests/*.test.mjs tests/hunter.test.mjs
 Scripted Chromium browser checks passed:
 
 - Every mission's roles, persistent cracks, duplicate protection, last-chance win, and final prison disappearance.
-- On-screen-key loss, answer reveal, and post-result input lock.
+- Desktop physical-keyboard loss, answer reveal, and post-result input lock.
+- Touch-device tapping and loss; readable word tiles at 320, 390, and 768 pixels.
+- Hidden desktop letter keys, correct focus on the word, and the optional accessibility toggle.
+- All four local scene images decode at the expected resolution.
 - Selecting another hero and resuming the original rescue.
 - Closing/reopening, focus restoration, and no guesses accepted while hidden.
 - No horizontal overflow in selection or play at 320, 390, 768, and 1280 pixels.
@@ -54,5 +59,7 @@ Scripted Chromium browser checks passed:
 Screenshots were visually inspected on desktop and phone layouts. Safari and physical devices have not been tested.
 
 ![Desktop character selection](shinobi-rescue-desktop.png)
+
+![Desktop physical-keyboard play](shinobi-rescue-desktop-play.png)
 
 ![Mobile rescue in progress](shinobi-rescue-mobile.png)
